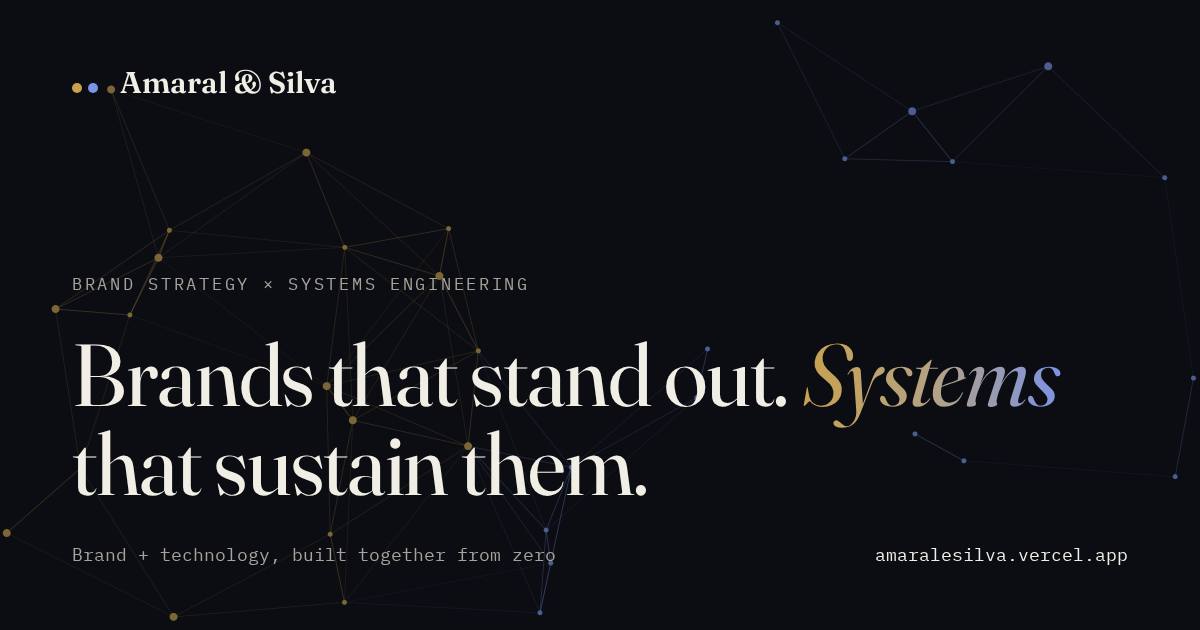
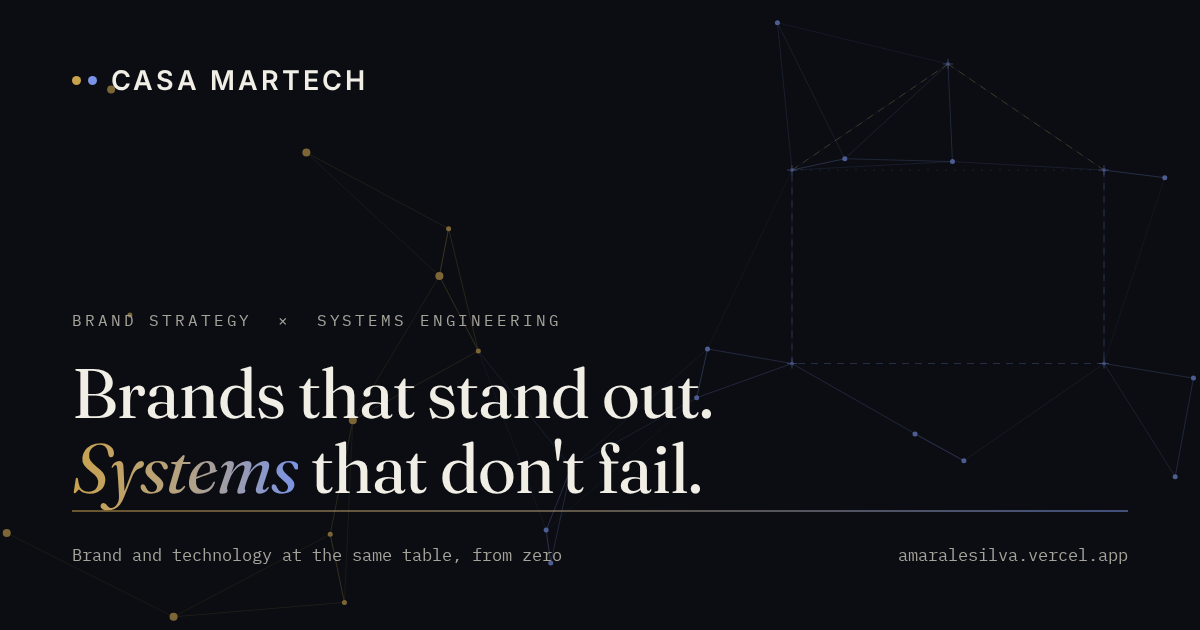
Os cartões de compartilhamento passam a ser CASA MARTECH
og.png e og-en.png ainda eram Amaral & Silva — e traziam uma tagline que nem
existe mais ("Sistemas que sustentam", "Systems that sustain them"). Quem
recebesse o link no WhatsApp ou no LinkedIn via a marca antiga com a frase
errada, enquanto a página abria como CASA MARTECH.

Os dois cartões foram refeitos com o nome atual e a tagline aprovada, em cada
idioma. São desenhados com as fontes e os tokens do próprio site: a mesma
constelação de semente fixa do hero, o contorno de casa em linha de construção
e a trilha ocre → azul que atravessa "O que entregamos".

E deixam de ser binários mágicos: scripts/build-og.mjs gera os dois, do mesmo
jeito que build-en.mjs gera a versão inglesa. Se a tagline, o nome ou o endereço
mudarem, muda o script.

No hero, as duas águas do telhado passam a ser ocre e o resto do contorno
continua azul — a casa fala a dualidade do site em vez de virar um ícone
imobiliário azul. Ela também encolheu um pouco e subiu, para folgar do ledger
de Trajetória/Setores/Idiomas em telas de 1100 a 1920.

Claude-Session: https://claude.ai/code/session_01WKdEVJCL2ESqPjQTQiqgsH

diff --git a/en/index.html b/en/index.html
@@ -2574,11 +2574,11 @@ select.field__input option { background: var(--bg-card); color: var(--ink); }
     /* só onde existe coluna livre à direita do título: abaixo disso o
        contorno cruzaria o texto, e leitura vem antes do motivo */
     if (!HOUSE || w < 1080 || h < 620) return [];
-    var width = Math.min(w * 0.26, 340);
+    var width = Math.min(w * 0.24, 310);
     var wall = width * 0.62;          /* altura da parede */
     var roof = width * 0.34;          /* altura do telhado */
-    var cx = w * 0.78;
-    var top = Math.max(h * 0.07, 48);
+    var cx = w * 0.80;
+    var top = Math.max(h * 0.055, 44);
     var left = cx - width / 2, right = cx + width / 2;
     var eave = top + roof, base = eave + wall;
     /* cumeeira, beiral direito, base direita, base esquerda, beiral esquerdo */
@@ -2659,10 +2659,13 @@ select.field__input option { background: var(--bg-card); color: var(--ink); }
        desenho técnico. Nunca uma casa literal — é uma sugestão. */
     var house = st.house;
     if (house.length) {
-      ctx.strokeStyle = colors.blue;
       for (var e = 0; e < HOUSE_EDGES.length; e++) {
         var a = pts[house[HOUSE_EDGES[e][0]]], b = pts[house[HOUSE_EDGES[e][1]]];
         var eave = e === HOUSE_EDGES.length - 1;
+        /* as duas águas do telhado em ocre, o resto em azul: a casa fala a
+           mesma dualidade do site, em vez de virar um ícone imobiliário */
+        var roof = HOUSE_EDGES[e][0] === 0 || HOUSE_EDGES[e][1] === 0;
+        ctx.strokeStyle = roof ? colors.ochre : colors.blue;
         /* tracejado de linha de construção: é o que separa o contorno do
            resto da malha sem precisar gritar mais alto que ela */
         ctx.setLineDash(eave ? [2, 7] : [7, 6]);

diff --git a/index.html b/index.html
@@ -2559,11 +2559,11 @@ select.field__input option { background: var(--bg-card); color: var(--ink); }
     /* só onde existe coluna livre à direita do título: abaixo disso o
        contorno cruzaria o texto, e leitura vem antes do motivo */
     if (!HOUSE || w < 1080 || h < 620) return [];
-    var width = Math.min(w * 0.26, 340);
+    var width = Math.min(w * 0.24, 310);
     var wall = width * 0.62;          /* altura da parede */
     var roof = width * 0.34;          /* altura do telhado */
-    var cx = w * 0.78;
-    var top = Math.max(h * 0.07, 48);
+    var cx = w * 0.80;
+    var top = Math.max(h * 0.055, 44);
     var left = cx - width / 2, right = cx + width / 2;
     var eave = top + roof, base = eave + wall;
     /* cumeeira, beiral direito, base direita, base esquerda, beiral esquerdo */
@@ -2644,10 +2644,13 @@ select.field__input option { background: var(--bg-card); color: var(--ink); }
        desenho técnico. Nunca uma casa literal — é uma sugestão. */
     var house = st.house;
     if (house.length) {
-      ctx.strokeStyle = colors.blue;
       for (var e = 0; e < HOUSE_EDGES.length; e++) {
         var a = pts[house[HOUSE_EDGES[e][0]]], b = pts[house[HOUSE_EDGES[e][1]]];
         var eave = e === HOUSE_EDGES.length - 1;
+        /* as duas águas do telhado em ocre, o resto em azul: a casa fala a
+           mesma dualidade do site, em vez de virar um ícone imobiliário */
+        var roof = HOUSE_EDGES[e][0] === 0 || HOUSE_EDGES[e][1] === 0;
+        ctx.strokeStyle = roof ? colors.ochre : colors.blue;
         /* tracejado de linha de construção: é o que separa o contorno do
            resto da malha sem precisar gritar mais alto que ela */
         ctx.setLineDash(eave ? [2, 7] : [7, 6]);

diff --git a/README.md b/README.md
@@ -18,9 +18,11 @@ A prova social roda em marquee.
 ```
 index.html      site completo (marcação + <style> + <script>, sem build)
 en/index.html   versão inglesa pré-renderizada (gerada, ver "Idiomas")
-scripts/        build-en.mjs, gerador do en/index.html (só desenvolvimento)
+scripts/        build-en.mjs (gera en/index.html) e build-og.mjs (gera as duas
+                imagens de compartilhamento) — só desenvolvimento
 favicon.svg     a casa do hero em traço: telhado ocre, paredes azuis, sem texto
-og.png, og-en.png  imagem de compartilhamento (1200×630) em PT e EN
+og.png, og-en.png  imagem de compartilhamento (1200×630) em PT e EN, geradas por
+                scripts/build-og.mjs com as fontes e os tokens do site
 fonts/          woff2 (latin + latin-ext): Fraunces, Inter e IBM Plex Mono para o
                 site; Space Grotesk para a proposta do CRM; Barlow e Barlow
                 Condensed para a proposta da 2JEM
@@ -64,6 +66,14 @@ junto.**
 Para editar uma frase, mude os dois lados: o texto no HTML (PT) e o `data-en`
 (EN). Se um dia o site virar Next.js, esses pares alimentam direto os
 dicionários do `next-intl`.
+
+## Imagens de compartilhamento
+
+`og.png` e `og-en.png` são **geradas**, não desenhadas à mão: `node
+scripts/build-og.mjs` monta um cartão de 1200×630 com as fontes embutidas em
+base64, a mesma constelação de semente fixa do hero, o contorno de casa em linha
+de construção e a trilha ocre → azul. Se a tagline, o nome ou o endereço
+mudarem, é o script que muda — e as duas imagens são versionadas junto.
 
 ## Formulário de contato (leads)
 
